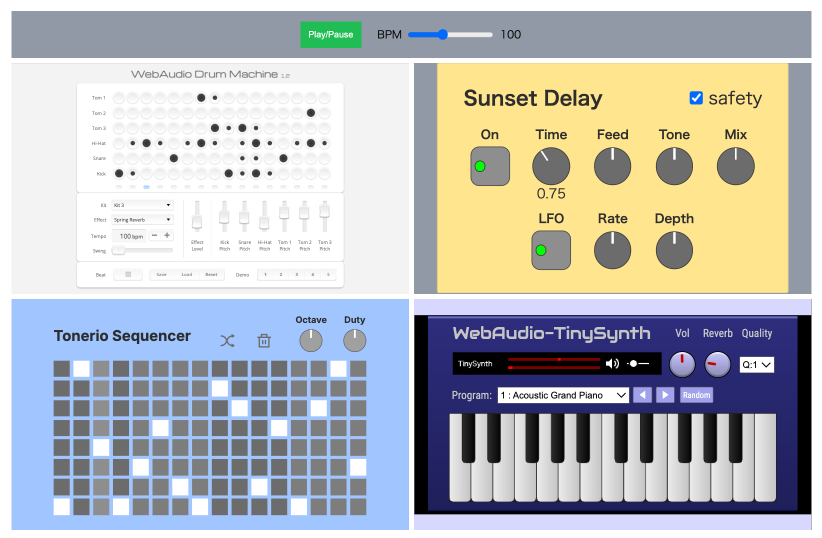
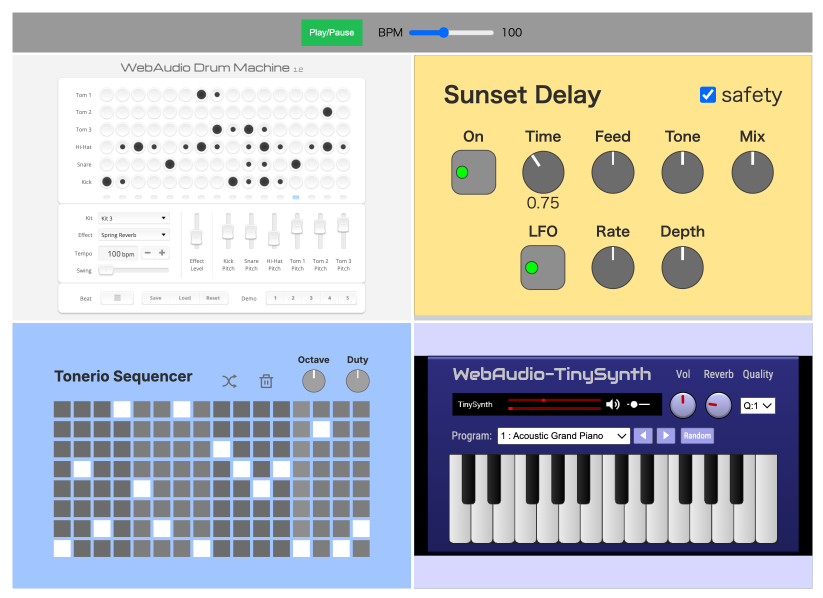
adjust layout

Changed region(s): [[0.0, 0.0297, 1.0, 0.9814], [0.365, 0.1784, 0.4258, 0.2082]]

diff --git a/example-apps/simple-session/src/index.tsx b/example-apps/simple-session/src/index.tsx
@@ -22,7 +22,7 @@ const store = createStore<StoreState>({
 const ControlBar = () => {
   const { playing, bpm } = store.useSnapshot();
   return (
-    <div className="flex-c gap-6 bg-gray-400 h-[70px]">
+    <div className="flex-c gap-6 bg-neutral-400 h-[60px]">
       <button
         className={clsx(
           "p-3 bd-none bg-gray-200 cursor-pointer",
@@ -52,23 +52,23 @@ const UnitTiles = () => {
   return (
     <div
       className={clsx(
-        "grid grid-cols-2 grid-rows-2 gap-2 w-[1200px] h-[700px] overflow-hidden",
+        "grid grid-cols-2 grid-rows-2 gap-1 w-[1200px] h-[800px] overflow-hidden",
       )}
     >
       <UnitFrameScaled
-        className="bg-gray-400"
+        className="bg-gray-300"
         unitId="drum1"
         destSpec="$output"
         unitUrl={catalog.shinyDrumMachine.loaderPageUrl}
       />
       <UnitFrameScaled
-        className="bg-gray-400"
+        className="bg-gray-300"
         unitId="effect1"
         destSpec="$output"
         unitUrl={catalog.sunsetDelay.loaderPageUrl}
       />
       <UnitFrameScaled
-        className="bg-gray-400"
+        className="bg-gray-300"
         unitId="sequencer1"
         destSpec="synth1"
         unitUrl={catalog.tonerioSequencer.loaderPageUrl}
@@ -79,7 +79,7 @@ const UnitTiles = () => {
         }}
       />
       <UnitFrameScaled
-        className="bg-gray-400"
+        className="bg-gray-300"
         unitId="synth1"
         destSpec="effect1"
         unitUrl={catalog.webaudioTinysynthMini.loaderPageUrl}
@@ -90,8 +90,8 @@ const UnitTiles = () => {
 
 const PageRoot = () => {
   return (
-    <div className="w-dvw h-dvh flex-c bg-gray-500">
-      <div className="flex-v gap-2">
+    <div className="w-dvw h-dvh flex-c bg-white">
+      <div className="flex-v gap-1">
         <ControlBar />
         <UnitTiles />
       </div>
